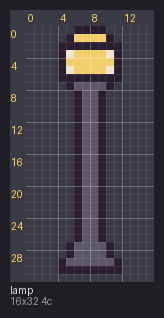
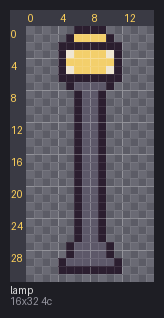
render and sheet: a grey checkerboard behind each frame by default
The flat #3a3a44 behind frames (luma about 59) swallowed dark outlines like #1c1626 (about
25). With no --bg, render and sheet now draw a checkerboard of two mid greys (#5c5c66 and
#6a6a74, luma about 93 and 107) behind each frame's own area, one square per sprite pixel
(4 screen px at least), under the grid lines. A dark outline reads against both greys, a
light highlight too, and the frame's transparent extent shows. The rest of a cell (a
smaller frame in a bigger cell, the rulers' margin) keeps the flat #3a3a44. --bg COLOR is
a flat backdrop as before, so '--bg #3a3a44' reproduces the old pictures exactly; with no
--bg, the PNG-backdrop rule in sheet's color count has no color to drop.

anim, onion, scene and diff keep their backdrops: anim's 1x and 2x copies would be a
per-pixel checker, and scene's --bg is part of the scene.

Examples: the eight render/sheet PNGs that use the default backdrop are regenerated with
examples/build.sh (01-format barrel/lamp previews, 02-animation sheet, 04-drawing chest
preview and steps, 07-import imported, 09-check fixed and fixed-dark); every other
example output is byte-identical.

Claude-Session: https://claude.ai/code/session_01U2DhzndxMnGYv7oZQKWzyx

diff --git a/pxart.py b/pxart.py
@@ -74,7 +74,7 @@ LOOKING
       or in DIR, and says so. --plain writes -o as the one frame alone, its exact size
       (--scale 1 by default), no grid, rulers, labels or --bg: for diff (--no-grid still
       pads and labels).
-  sheet FILE|DIR... -o sheet.png [--scale 8] [--cols 8] [--grid] [--variant V] [--bg #3a3a44]
+  sheet FILE|DIR... -o sheet.png [--scale 8] [--cols 8] [--grid] [--variant V] [--bg COLOR]
         [--fit] [--align bottom|pivot] [--rows cols|group] [--exclude GLOB] [--dry-run]
       Compare any mix of .px/.png frames, labeled with id, WxH and color count. A directory
       stands for every .px under it, recursively, sorted by path ('sheet crossover/ -o
@@ -214,10 +214,11 @@ LOOKING
       pixel; each pixel keeps its alpha, so transparent pixels stay transparent. Without -o,
       IN is rewritten.
   Centering: frames of different sizes are bottom-aligned and centered, with the odd
-  pixel going left (x = (canvas - frame) // 2). --bg works on render, sheet and scene, and
-  takes #rrggbb, #rrggbbaa or 'transparent' (as does every color typed on the command line:
-  --tint, tint, palette --add k=transparent; the '#' may be left off, and in a script a
-  '#' color needs quotes, or the shell reads a comment).
+  pixel going left (x = (canvas - frame) // 2). render and sheet put a grey checkerboard
+  behind frames; --bg (render, sheet, scene) takes a flat #rrggbb, #rrggbbaa or 'transparent'
+  (as does every color typed on the command line: --tint, tint, palette --add
+  k=transparent; the '#' may be left off, and in a script a '#' color needs quotes, or the
+  shell reads a comment).
   --dry-run (render, sheet, anim, onion, scene) prints the readout and each output's size and
   layout, writes nothing and says '(dry run; nothing written)'. -o may then be left off. An
   image over 4096 px on a side or 16M px gets a WARNING, dry run or not.
@@ -787,8 +788,7 @@ CONVERTING
       --tiled: sheet PNG + Tiled tileset JSON with per-tile animations
       (--aseprite x.json and --tiled x.tsj share one identical x.png)
       FILE:SEL exports only those frames; several selectors of one file add up, in file
-      order: 'export harbor.px:cobble harbor.px:water --tiled t.tsj' leaves the 32x32
-      props out of a 16x16 tileset.
+      order: 'export harbor.px:cobble harbor.px:water --tiled t.tsj' (no 32x32 props).
       Several files and directories export together, file by file in the order named; a
       directory stands for every .px under it (palette files skipped, --exclude as for
       sheet): 'export town/ --frames out/'. No two frames may get one name: an id two files
@@ -1896,7 +1896,21 @@ def sheet_rows(its, cols, rows="cols"):
     return [ns[i:i + cols] for ns in groups.values() for i in range(0, len(ns), cols)]
 
 
-def sheet(its, out, scale=8, cols=8, bg="#3a3a44", grid=False, rulers=False, fit=False, align="bottom", rows="cols",
+CHECKER = ((0x5c, 0x5c, 0x66, 255), (0x6a, 0x6a, 0x74, 255))  # render's and sheet's default behind a frame: greys a
+CELL_BG = "#3a3a44"  # dark outline shows on. CELL_BG: a sheet cell around its frame (and --bg's old default)
+
+
+def checker(w, h, sq):
+    """A w x h checkerboard of sq-px squares in CHECKER's greys: what shows through a frame's transparent pixels."""
+    img = Image.new("RGBA", (w, h), CHECKER[0])
+    d = ImageDraw.Draw(img)
+    for y in range(0, h, sq):
+        for x in range((y // sq) % 2 * sq, w, 2 * sq):
+            d.rectangle([x, y, x + sq - 1, y + sq - 1], fill=CHECKER[1])
+    return img
+
+
+def sheet(its, out, scale=8, cols=8, bg=None, grid=False, rulers=False, fit=False, align="bottom", rows="cols",
           what="-o"):
     """Frames in a grid of --cols cells, each labeled. Every cell is the largest frame's size; fit: each cell is its own
     frame's (and label's) width, and each row as tall as its tallest frame, rows packed left to right. align 'pivot':
@@ -1915,6 +1929,7 @@ def sheet(its, out, scale=8, cols=8, bg="#3a3a44", grid=False, rulers=False, fit
             for it, at in zip(g, lay[2] if lay else ()):
                 shown[id(it)] = placed(it.img, lay[0], lay[1], at, CLEAR)
     tiles = [(it, upscale(shown[id(it)], scale, grid, rulers)) for it in its]
+    ruled = 16 if grid and rulers and scale >= 4 else 0  # where upscale's rulers put the frame in its tile
     lws = [max(text_w(probe, it.label), text_w(probe, f"{it.img.width}x{it.img.height} 99c")) for it in its]
     lw = max(lws)
     iw = max((it.img.width for it in its if it.img.height <= 22), default=0)
@@ -1953,8 +1968,12 @@ def sheet(its, out, scale=8, cols=8, bg="#3a3a44", grid=False, rulers=False, fit
     s = Image.new("RGBA", size, (30, 30, 36, 255))
     d = ImageDraw.Draw(s)
     for (it, big), (x, y, cw, ch, lw) in zip(tiles, spots):
-        d.rectangle([x, y, x + cw - 1, y + ch - 1], fill=rgba(bg))
-        s.alpha_composite(big, (x + (cw - big.width) // 2, y + ch - big.height))
+        d.rectangle([x, y, x + cw - 1, y + ch - 1], fill=rgba(bg if bg is not None else CELL_BG))
+        at = (x + (cw - big.width) // 2, y + ch - big.height)
+        if bg is None:  # no --bg: a checkerboard behind the frame itself, a square per pixel (4 px at least)
+            fw, fh = shown[id(it)].width * scale, shown[id(it)].height * scale
+            s.alpha_composite(checker(fw, fh, scale * max(1, -(-4 // scale))), (at[0] + ruled, at[1] + ruled))
+        s.alpha_composite(big, at)
         if it.img.height <= lab - 4 and it.img.width <= cw - lw - 6:
             s.alpha_composite(it.img, (x + cw - it.img.width - 2, y + ch + 4))  # 1x beside the label
         d.text((x, y + ch + 2), it.label, fill=(220, 220, 220, 255))
@@ -1984,7 +2003,10 @@ def cell_size(its, tiles, cw, ch, scale):
 def n_colors(it, bg):
     """The sheet label's color count. A PNG (a scene rendered with this --bg) whose four corners are exactly the
     --bg color doesn't count that color: it's the backdrop, not the art's."""
-    cs, bg = colors(it.img), rgba(bg)
+    cs = colors(it.img)
+    if bg is None:  # the checkerboard: no backdrop color a PNG could have been rendered on
+        return len(cs)
+    bg = rgba(bg)
     w, h = it.img.size
     if it.doc is None and bg[3] and all(it.img.getpixel(c) == bg for c in ((0, 0), (w - 1, 0), (0, h - 1), (w - 1, h - 1))):
         cs = [c for c in cs if c != bg]
@@ -2672,12 +2694,12 @@ def cmd_render(a):
                                about=f"{its[0].label} alone, {img.width}x{img.height} at --scale {s}",
                                smaller="a lower --scale makes it smaller")))
         return
-    bg = parse_color(a.bg or "#3a3a44", "--bg")
+    bg = parse_color(a.bg, "--bg") if a.bg else None
     print(wrote(sheet(its, a.o, a.scale or 8, bg=bg, grid=not a.no_grid, rulers=not a.no_grid)))
 
 
 def cmd_sheet(a):
-    a.bg = parse_color(a.bg, "--bg")
+    a.bg = parse_color(a.bg, "--bg") if a.bg else None
     files = frames_only(in_dirs(a.files, exclude=a.exclude or ()), "sheet")
     need_o(a, "sheet.png")
     its = all_items(files, a.variant)
@@ -7927,12 +7949,14 @@ def parser(describe=True):
     p.add_argument("--plain", action="store_true",
                    help="-o is the one frame alone: its exact size at --scale (default 1), no grid, rulers or labels")
     p.add_argument("--scale", type=int, help="default 8 (--plain: 1)")
-    p.add_argument("--bg", help="default #3a3a44 (--plain: none, transparent stays transparent)")
+    p.add_argument("--bg", help="a flat color (default: a grey checkerboard behind each frame; --plain: none, "
+                   "transparent stays transparent)")
     p.add_argument("--no-grid", action="store_true"); p.add_argument("--variant")
     p.add_argument("--dry-run", action="store_true", help=DRY_HELP)
     p = sub.add_parser("sheet"); p.add_argument("files", nargs="+"); p.add_argument("-o")
     p.add_argument("--scale", type=int, default=8); p.add_argument("--cols", type=int, default=8)
-    p.add_argument("--bg", default="#3a3a44"); p.add_argument("--grid", action="store_true"); p.add_argument("--variant")
+    p.add_argument("--bg", help="a flat color behind each frame (default: a grey checkerboard)")
+    p.add_argument("--grid", action="store_true"); p.add_argument("--variant")
     p.add_argument("--fit", action="store_true", help="each cell its own frame's size, each row its tallest frame's")
     p.add_argument("--align", choices=["bottom", "pivot"], default="bottom",
                    help="pivot: line up each animation's frames by pivot, as anim does (default: bottom)")

diff --git a/tests/test_pxart.py b/tests/test_pxart.py
@@ -11908,7 +11908,7 @@ def test_sheet_fit_mixed_files_and_pngs(tmp_path):
 
 def test_help_documents_sheet_fit():
     doc = " ".join(pxart.__doc__.split())
-    assert "[--bg #3a3a44] [--fit]" in doc
+    assert "[--bg COLOR] [--fit]" in doc
     assert "--fit makes each cell its own frame's width (or its label's, if wider)" in doc
 
 
@@ -26100,3 +26100,81 @@ def test_derive_a_variant_the_import_lacks_still_derives_imported_keys(tmp_path,
     s = write(tmp_path, "s.px", "pxart 1\n@palette pal.px\n@frame a\nkw\n")
     assert run("palette", s, "--variant", "dusk", "--derive-from", "base", "--darken", "0.3") == 0
     assert "@variant dusk\nk #161616\nw #9d9d9d\n" in s.read_text()
+
+
+# ---------------------------------------------------------------- render/sheet: a checkerboard behind frames by default
+
+DARK = "o #1c1626\n@frame a\no..\n.o.\n"
+
+
+def test_render_default_bg_is_a_checkerboard_behind_the_frame(tmp_path, capsys):
+    p = write(tmp_path, "d.px", DARK)
+    assert run("render", p, "-o", tmp_path / "r.png", "--no-grid") == 0
+    px = pxart.pixels(Image.open(tmp_path / "r.png").convert("RGBA"))
+    # 4 transparent pixels of 8x8 each, a square each: (1,0), (0,1), (2,1) of one grey, (2,0) of the other
+    assert px.count(pxart.CHECKER[0]) == 3 * 64 and px.count(pxart.CHECKER[1]) == 64
+
+
+def test_render_checker_squares_follow_the_pixels(tmp_path, capsys):
+    p = write(tmp_path, "d.px", "o #1c1626\n@frame a\n....\n....\n")
+    assert run("render", p, "-o", tmp_path / "r.png", "--no-grid") == 0
+    img = Image.open(tmp_path / "r.png").convert("RGBA")
+    y0 = 10
+    x0 = next(x for x in range(img.width) if img.getpixel((x, y0 + 4)) in pxart.CHECKER)  # the frame's left edge
+    row = [img.getpixel((x0 + 8 * i + 4, y0 + 4))[:3] for i in range(4)]
+    assert img.getpixel((x0 + 32, y0 + 4)) not in pxart.CHECKER  # 4 px of 8: the checker ends with the frame
+    assert row[0] == row[2] != row[1] == row[3]
+    assert img.getpixel((x0 + 1, y0 + 1)) == img.getpixel((x0 + 6, y0 + 6))  # one square per pixel
+
+
+def test_render_dark_outline_contrasts_with_the_default(tmp_path, capsys):
+    p = write(tmp_path, "d.px", DARK)
+    assert run("render", p, "-o", tmp_path / "r.png", "--no-grid") == 0
+    img = Image.open(tmp_path / "r.png").convert("RGBA")
+    lum = lambda c: 0.2126 * c[0] + 0.7152 * c[1] + 0.0722 * c[2]
+    for c in pxart.CHECKER:
+        assert lum(c) - lum((0x1c, 0x16, 0x26)) > 60 and lum((0x3a, 0x3a, 0x44)) - lum((0x1c, 0x16, 0x26)) < 40
+
+
+def test_render_bg_flat_is_as_before(tmp_path, capsys):
+    p = write(tmp_path, "d.px", DARK)
+    assert run("render", p, "-o", tmp_path / "r.png", "--bg", "#3a3a44", "--no-grid") == 0
+    px = pxart.pixels(Image.open(tmp_path / "r.png").convert("RGBA"))
+    assert pxart.CHECKER[0] not in px and pxart.CHECKER[1] not in px and px.count((0x3a, 0x3a, 0x44, 255)) >= 6 * 64
+
+
+def test_sheet_default_bg_checker_only_behind_each_frame(tmp_path, capsys):
+    a = write(tmp_path, "a.px", "o #1c1626\n@frame a\no.\n")
+    b = write(tmp_path, "b.px", "o #1c1626\n@frame b\no...\n....\n")
+    assert run("sheet", a, b, "-o", tmp_path / "s.png", "--scale", "4") == 0
+    px = pxart.pixels(Image.open(tmp_path / "s.png").convert("RGBA"))
+    # a's one transparent pixel and b's seven, 4x4 each at --scale 4: the checker covers those and nothing else of
+    # the cells (a's cell is b's size; the rest of it is the flat cell color)
+    assert px.count(pxart.CHECKER[0]) + px.count(pxart.CHECKER[1]) == 8 * 16
+    assert px.count((0x3a, 0x3a, 0x44, 255)) > 0
+
+
+def test_sheet_bg_given_is_flat(tmp_path, capsys):
+    a = write(tmp_path, "a.px", "o #1c1626\n@frame a\n..\n")
+    assert run("sheet", a, "-o", tmp_path / "s.png", "--bg", "#102030") == 0
+    img = Image.open(tmp_path / "s.png").convert("RGBA")
+    assert img.getpixel((12, 12)) == (0x10, 0x20, 0x30, 255)
+
+
+def test_sheet_color_count_with_checker_counts_every_color(tmp_path, capsys):
+    s = Image.new("RGBA", (4, 4), (0x3a, 0x3a, 0x44, 255))
+    s.putpixel((1, 1), (255, 0, 0, 255))
+    s.save(tmp_path / "scene.png")
+    it = pxart.Item("scene", Image.open(tmp_path / "scene.png").convert("RGBA"), 100)
+    assert pxart.n_colors(it, None) == 2 and pxart.n_colors(it, (0x3a, 0x3a, 0x44, 255)) == 1
+
+
+def test_checker_is_two_greys_in_squares():
+    img = pxart.checker(8, 4, 2)
+    assert img.getpixel((0, 0)) == pxart.CHECKER[1] and img.getpixel((2, 0)) == pxart.CHECKER[0]
+    assert img.getpixel((0, 2)) == pxart.CHECKER[0] and img.getpixel((1, 1)) == pxart.CHECKER[1]
+
+
+def test_help_says_render_draws_a_checkerboard():
+    doc = " ".join(pxart.__doc__.split())
+    assert "render and sheet put a grey checkerboard behind frames; --bg (render, sheet, scene) takes a flat" in doc

diff --git a/README.md b/README.md
@@ -149,7 +149,8 @@ selecting frames, ...) rather than repeating them. zsh users: write `"${F}:walk"
 (a new OUT imports the layers' shared `@palette`; variants merge by name; ...) and examples;
 `pxart help compose-rules` and `pxart help palette-rules` print only the rules.
 
-- **Looking:** `render` (`--png` also writes each single-frame `.px` at 1x, `FILE.png` beside it
+- **Looking:** `render` and `sheet` draw a grey checkerboard behind each frame, so a dark outline and
+  the transparent pixels both show (`--bg COLOR` for a flat backdrop instead). `render` (`--png` also writes each single-frame `.px` at 1x, `FILE.png` beside it
   or in `--png DIR`, and prints the path; `--plain` writes one frame alone at its exact size, no grid,
   rulers or labels, to `diff` against a scene's PNG), `sheet` (a directory stands for every `.px` under it, sorted by
   path, and palette files are skipped with a note; `--exclude GLOB` leaves files out, `room.px`
